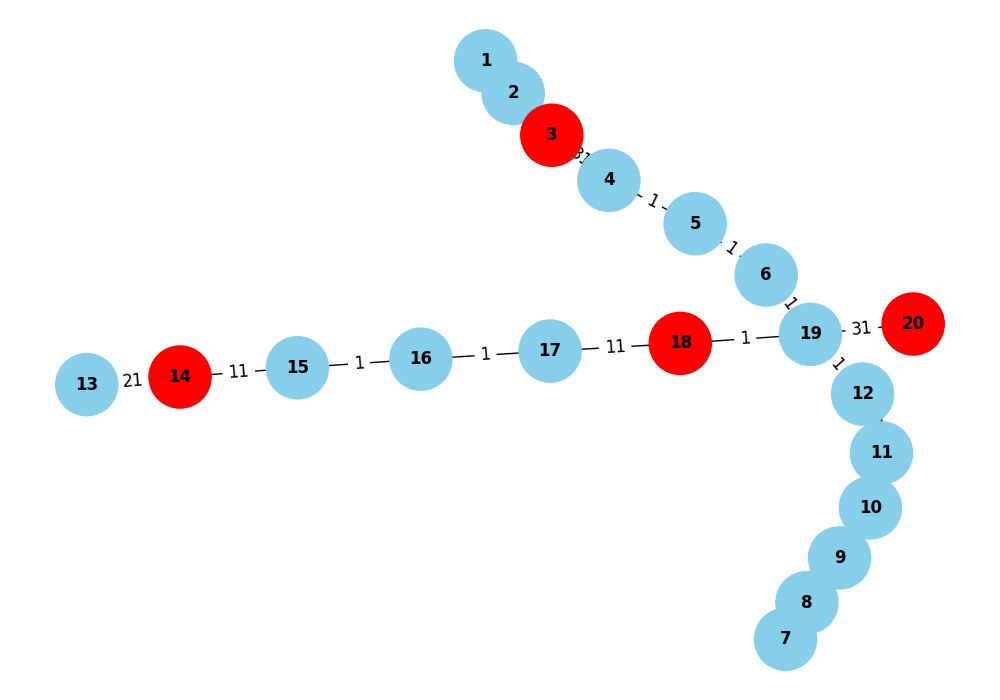
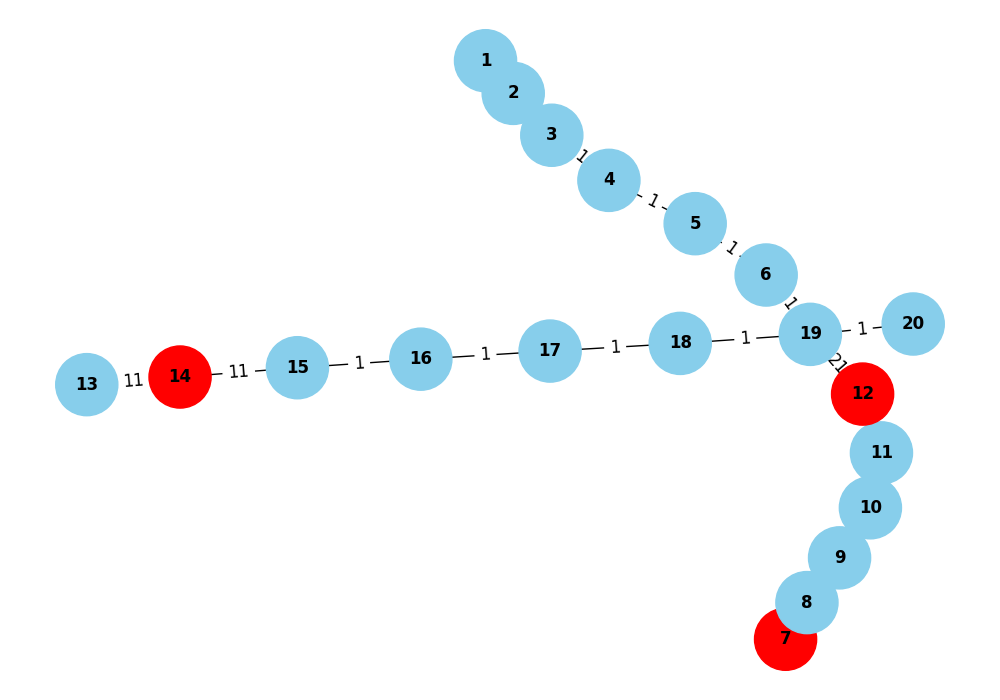
blacklist function

diff --git a/Network.py b/Network.py
@@ -25,7 +25,8 @@ edgeList = [[1,2], [2,3], [3,4], [4,5], [5,6], [6,19], [18,19],
             [13,14], [14,15], [15,16], [16,17], [17,18], [19,20]]
 
 for i in range(1, 21):
-    G.add_node(i, prob=.8, id=i, packet=Packet(i, [i, i], 1), sendChance=.0008, distance=0, rate_limit=10, sent_packets=0, user_type="normal", activity_level=1)
+    G.add_node(i, prob=.8, id=i, packet=Packet(i, [i, i], 1), sendChance=.0008, distance=0, rate_limit=10, 
+               sent_packets=0, user_type="normal", activity_level=1, blacklisted=False)
 
 # Add edges to the graph
 for edge in edgeList:
@@ -59,6 +60,11 @@ def prevent_ddos(G, ddos_nodes):
         G.nodes[node]['activity_level'] = 1
         G.nodes[node]['sendChance'] = G.nodes[node]['sendChance'] * G.nodes[node]['activity_level']
 
+def blacklistAttackers(G, ddos_nodes):
+    for node in ddos_nodes:
+        if G.nodes[node]['user_type'] == "attacker":
+            G.nodes[node]['blacklisted'] = True
+
 def save_network(G, title="Network Topology", filename="network_topology.png"):
     pos = nx.spring_layout(G, seed=42)
     node_colors = []
@@ -91,16 +97,19 @@ for step in range(1000):
         if rd.random() < G.nodes[node]['sendChance'] and G.nodes[node]['sent_packets'] < G.nodes[node]['rate_limit']:
             totalPacketsSent += 1
             packets_by_user_type[G.nodes[node]['user_type']] += 1
-            G.nodes[node]['sent_packets'] += 1
+            if(G.nodes[node]['blacklisted'] == False):
+                G.nodes[node]['sent_packets'] += 1
             
             # Simulate packet sending logic and update edge delays
             neighbors = list(G.neighbors(node))
             target_node = rd.choice(neighbors)
             edge = (node, target_node) if G.has_edge(node, target_node) else (target_node, node)
-            G.edges[edge]['delay'] += G.nodes[node]['activity_level']
+            if(G.nodes[node]['blacklisted'] == False):
+                G.edges[edge]['delay'] += G.nodes[node]['activity_level']
 
     # Detect congestion and prevent DDoS attack if detected
     if not attack_detected and detect_congestion(G):
+        blacklistAttackers(G, ddos_nodes)
         steps_to_detect_attack = step
         attack_detected_time = datetime.now().strftime("%Y-%m-%d %H:%M:%S")
         print(f"Congestion detected at step {step} ({attack_detected_time})! Preventing DDoS attack.")
